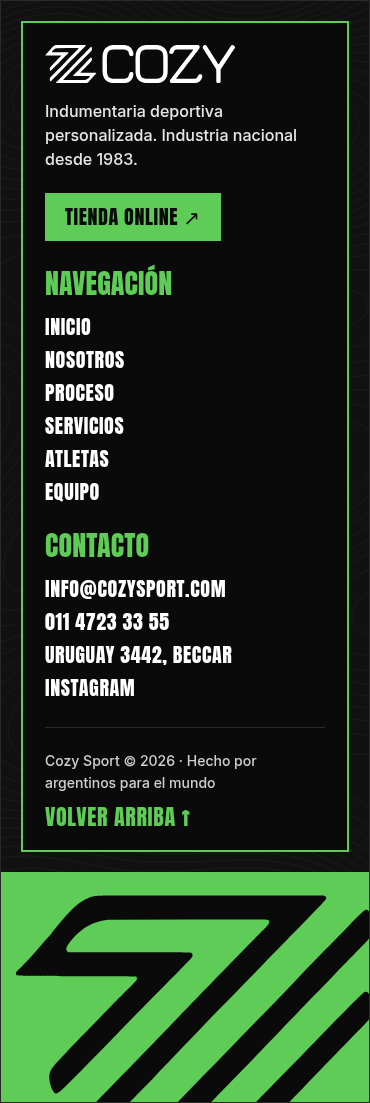
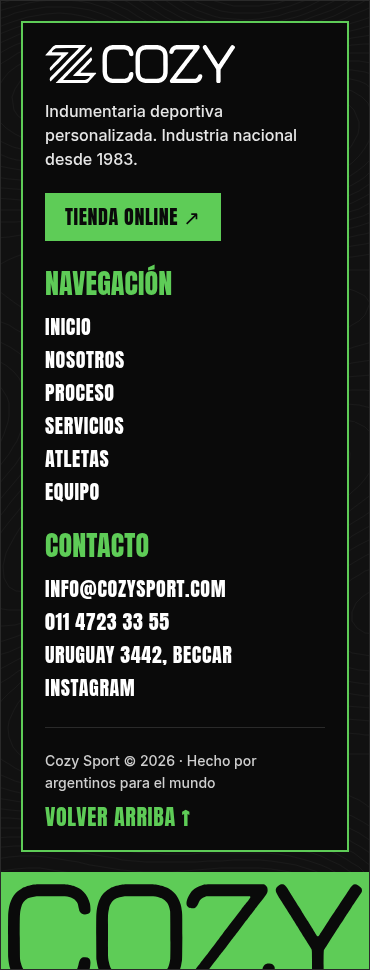
Footer: replace isotype with full-width cropped COZY wordmark band

Changed region(s): [[0.0, 0.0, 1.0, 1.0]]

diff --git a/styles.css b/styles.css
@@ -216,7 +216,7 @@ a.card:hover .card__cta{color:var(--ink)}
 .social:hover .lbl,.social:focus-visible .lbl{color:var(--ink)}
 
 /* ---------- FOOTER ---------- */
-.foot{display:grid;grid-template-columns:1fr minmax(160px,.3fr);border-top:1px solid var(--line);margin-bottom:var(--gap);border-bottom:1px solid var(--line);overflow:hidden;background:rgba(16,16,16,.72)}
+.foot{display:grid;grid-template-columns:1fr;border-top:1px solid var(--line);margin-bottom:var(--gap);border-bottom:1px solid var(--line);overflow:hidden;background:rgba(16,16,16,.72)}
 .foot__panel{margin:clamp(20px,3vw,40px);border:2px solid var(--acc);background:var(--ink);padding:clamp(22px,3vw,40px);display:grid;grid-template-columns:1.2fr 1fr 1fr;gap:28px 32px}
 .foot__brand img{width:190px;height:auto}
 .foot__brand p{margin:16px 0 22px;font-size:16px;font-weight:500;color:#e6e6e6;max-width:320px;line-height:1.5}
@@ -227,8 +227,8 @@ a.card:hover .card__cta{color:var(--ink)}
 .foot__col a:hover{color:var(--acc)}
 .foot__base{grid-column:1/-1;display:flex;flex-wrap:wrap;justify-content:space-between;gap:12px 24px;padding-top:22px;border-top:1px solid var(--line);font-size:14px;font-weight:500;color:#cfcfcf}
 .foot__up{font-family:var(--disp);text-transform:uppercase;letter-spacing:.03em;color:var(--acc);text-decoration:none;font-size:22px;line-height:1}
-.foot__giant{position:relative;background:var(--acc);overflow:hidden;min-height:260px}
-.foot__giant img{position:absolute;max-width:none;width:auto;height:112%;left:-12%;top:12%;filter:none}
+.foot__giant{position:relative;background:var(--acc);overflow:hidden;aspect-ratio:2280/600}
+.foot__giant img{position:absolute;max-width:none;width:96%;height:auto;left:2%;top:11.4%;filter:none}
 
 /* reveal */
 .js .reveal{opacity:0;transform:translateY(18px);transition:opacity .6s,transform .6s}
@@ -273,8 +273,6 @@ a.card:hover .card__cta{color:var(--ink)}
   .foot{grid-template-columns:1fr}
   .foot__panel{grid-template-columns:1fr 1fr}
   .foot__brand{grid-column:1/-1}
-  .foot__giant{min-height:230px}
-  .foot__giant img{height:128%;left:auto;right:-10%;top:10%}
   .bar__nav{gap:16px}
 }
 @media (max-width:560px){

diff --git a/index.html b/index.html
@@ -18,7 +18,7 @@
 <link rel="preconnect" href="https://fonts.gstatic.com" crossorigin>
 <link href="https://fonts.googleapis.com/css2?family=Anton&family=Inter:wght@400;500;600;700&family=JetBrains+Mono:wght@500;700&display=swap" rel="stylesheet">
 <link rel="preload" as="image" href="assets/RATON_SLIDER.webp">
-<link rel="stylesheet" href="styles.css?v=202610242115">
+<link rel="stylesheet" href="styles.css?v=202610242130">
 </head>
 <body id="top">
 <a class="skip" href="#main">Saltar al contenido</a>
@@ -280,8 +280,8 @@
       <a href="#top" class="foot__up">Volver arriba ↑</a>
     </div>
   </div>
-  <div class="foot__giant" aria-hidden="true"><img src="assets/cozy-mark.svg" alt="" width="886" height="663"></div>
+  <div class="foot__giant" aria-hidden="true"><img src="assets/cozy-word.svg" alt="" width="2280" height="670"></div>
 </footer>
-<script src="main.js?v=202610242115" defer></script>
+<script src="main.js?v=202610242130" defer></script>
 </body>
 </html>
